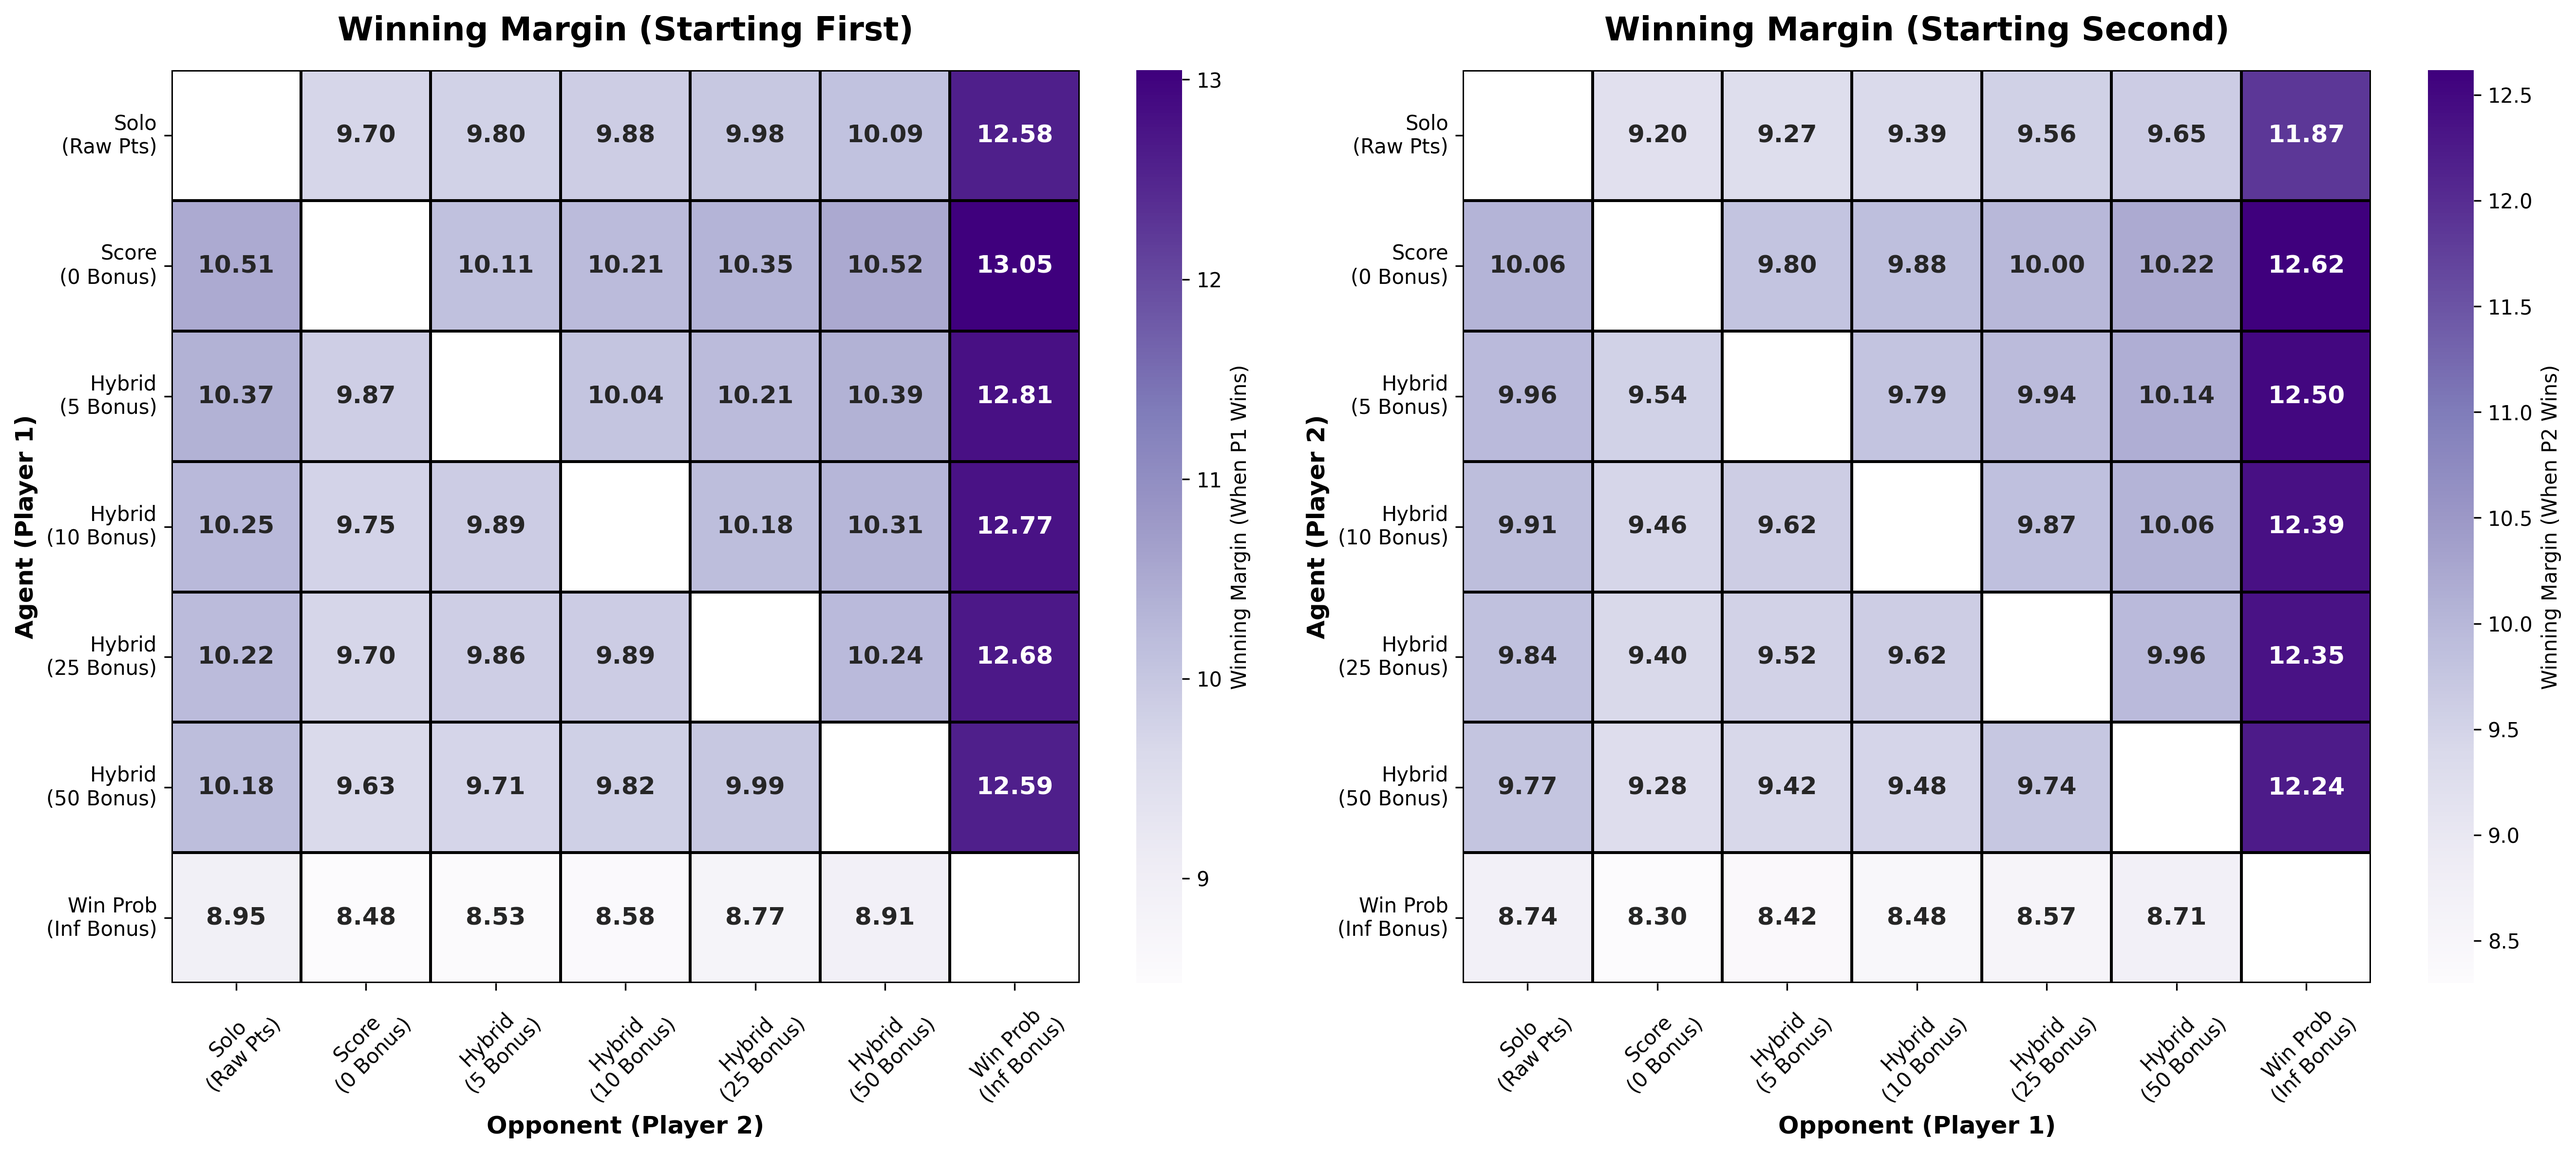
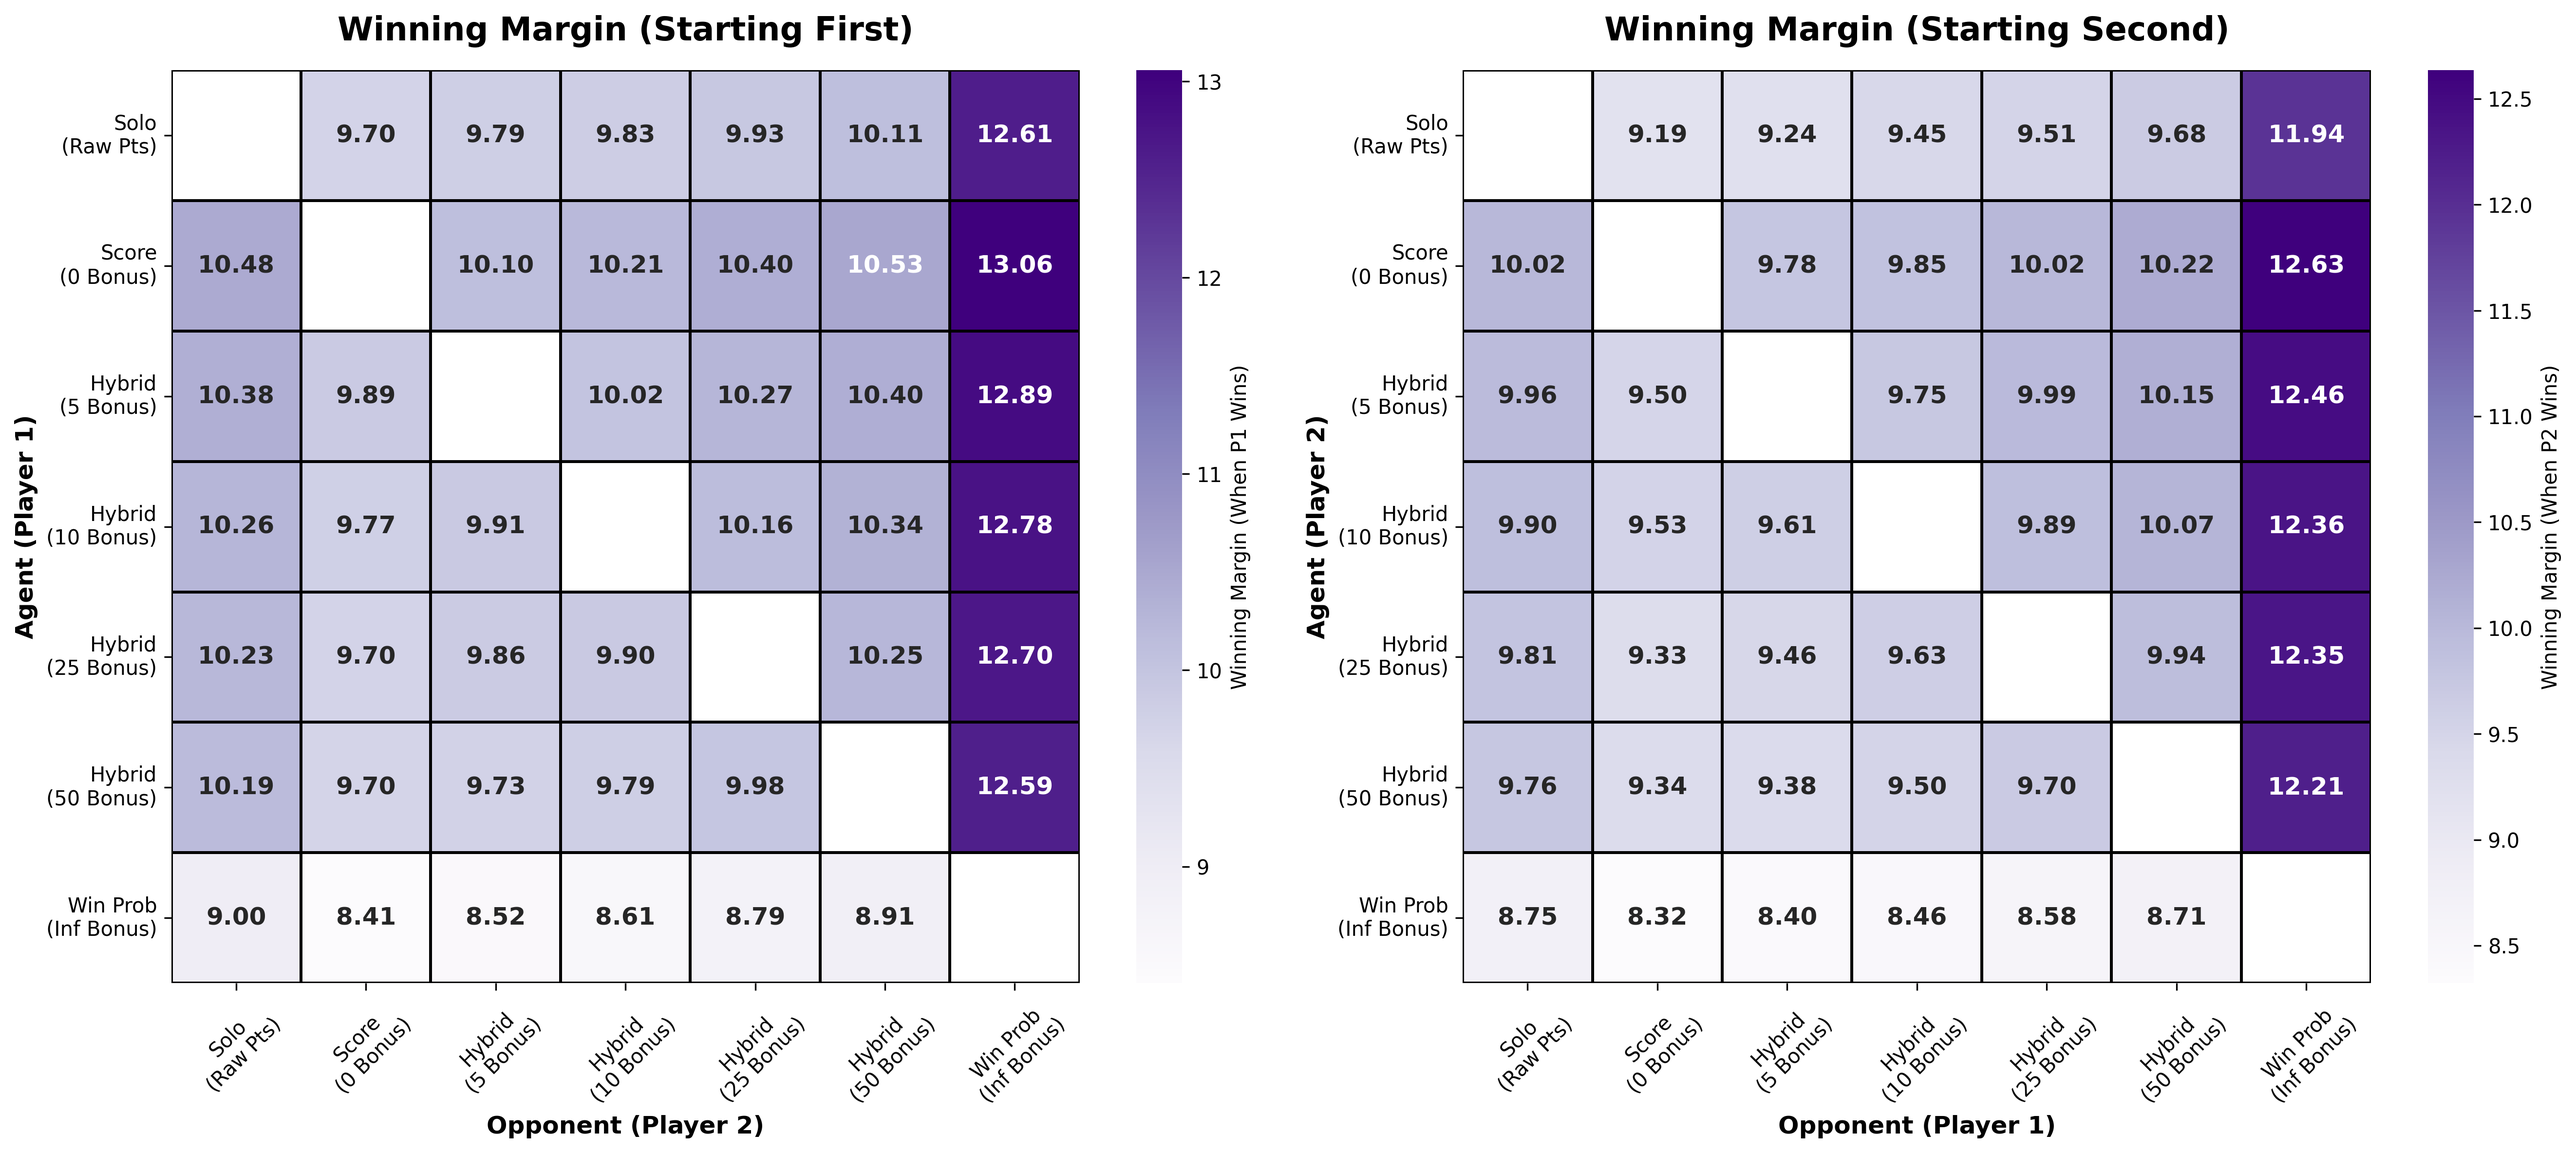
seperate win rate

diff --git a/analysis/simulate_round_robin.py b/analysis/simulate_round_robin.py
@@ -48,13 +48,13 @@ def plot_heatmaps(win_matrix, p1_score_matrix, p2_score_matrix, p1_margin_matrix
         plt.close() 
 
     # --- Plot 1: Overall Win Rate % ---
-    # Visualizes the empirical approximation of Equation 3 (Win Probability)
+    # Visualizes the empirical approximation of Equation 3 (Win Probability) conditional on starting first.
     plt.figure(figsize=(10, 8))
     sns.heatmap(pd.DataFrame(win_matrix, index=display_names, columns=display_names), 
                 annot=True, fmt=".1f", cmap="RdYlGn", center=50.0, 
-                cbar_kws={'label': 'Win Rate % (Row vs Col)'},
+                cbar_kws={'label': 'Win Rate % (Row as P1)'},
                 linewidths=1, linecolor='black', annot_kws=annot_settings)
-    format_and_save("Qwixx AI: Overall Win Rate (%)", "Opponent Strategy (Column)", "Agent Strategy (Row)", "heatmap_1_win_rate.png")
+    format_and_save("Qwixx AI: Win Rate % (Starting First)", "Opponent Strategy (Player 2)", "Agent Strategy (Player 1)", "heatmap_1_win_rate.png")
 
     # --- Plots 2 & 3: P1 and P2 Points ---
     # Visualizes the expected absolute points (Equation 2) conditional on turn order.
@@ -124,7 +124,7 @@ def run_round_robin():
     # Calculate all C(7, 2) unique cross-play combinations
     matchups = list(itertools.combinations(agents, 2))
     
-    games_per_matchup = 300000 
+    games_per_matchup = 200000 
     
     # Initialize the N x N payoff matrices
     win_matrix = np.full((len(agents), len(agents)), 50.0)
@@ -146,15 +146,17 @@ def run_round_robin():
         # Computes the empirical outcomes of the finite Markov game under the specified policies.
         stats = TournamentEngine.run_nash_matchup(tag_a, tag_b, games_per_matchup)
 
-        # Calculate zero-sum win rates. 
-        # A tie grants exactly 0.5 wins to both players to maintain the constant-sum property.
+        # Calculate zero-sum win rates for terminal output 
         a_win_rate = (((stats['a_as_p1_wins'] + stats['a_as_p2_wins']) + (0.5 * stats['ties'])) / games_per_matchup) * 100
         b_win_rate = (((stats['b_as_p1_wins'] + stats['b_as_p2_wins']) + (0.5 * stats['ties'])) / games_per_matchup) * 100
         
-        win_matrix[a_idx][b_idx] = a_win_rate; win_matrix[b_idx][a_idx] = b_win_rate
+        # Calculate asymmetric win rates (Row agent starting as Player 1 vs Col agent starting as Player 2)
+        half_games = games_per_matchup / 2
+        half_ties = stats['ties'] / 2
+        win_matrix[a_idx][b_idx] = ((stats['a_as_p1_wins'] + 0.5 * half_ties) / half_games) * 100
+        win_matrix[b_idx][a_idx] = ((stats['b_as_p1_wins'] + 0.5 * half_ties) / half_games) * 100
         
         # Normalize the sum of absolute points by the subset of games played in that position (N / 2)
-        half_games = games_per_matchup / 2
         p1_score_matrix[a_idx][b_idx] = stats['a_as_p1_pts'] / half_games
         p1_score_matrix[b_idx][a_idx] = stats['b_as_p1_pts'] / half_games
         p2_score_matrix[a_idx][b_idx] = stats['a_as_p2_pts'] / half_games
